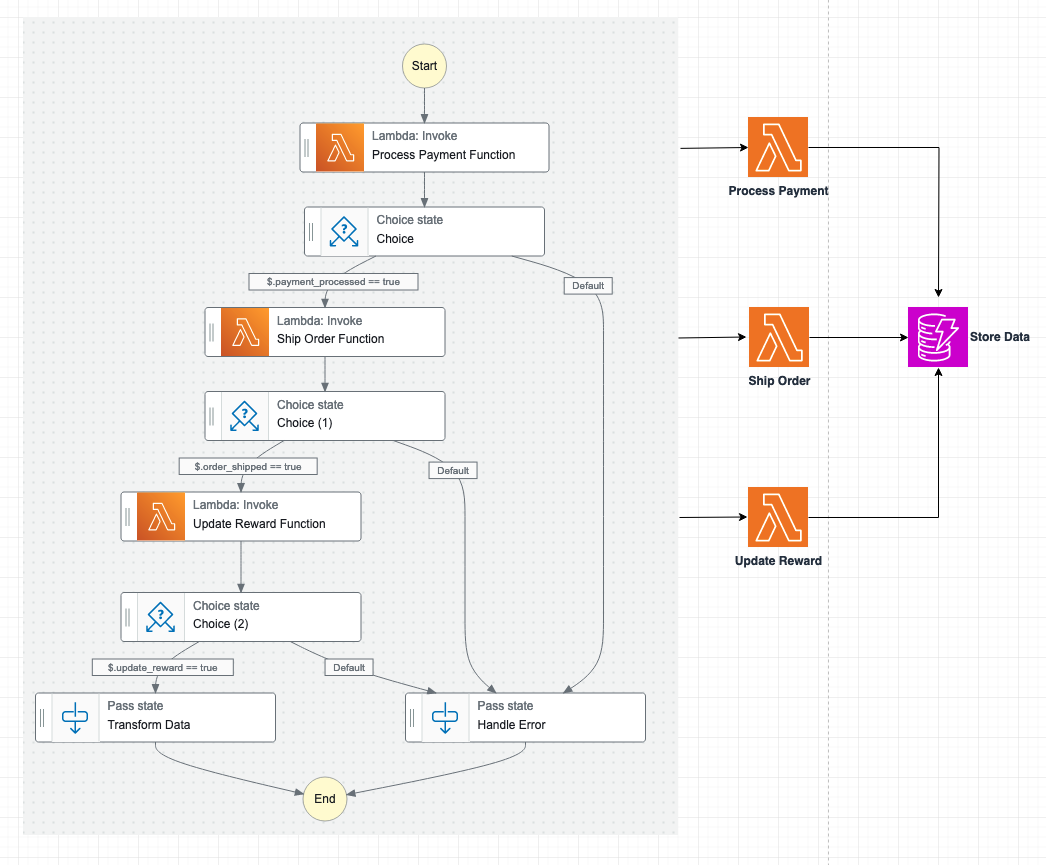
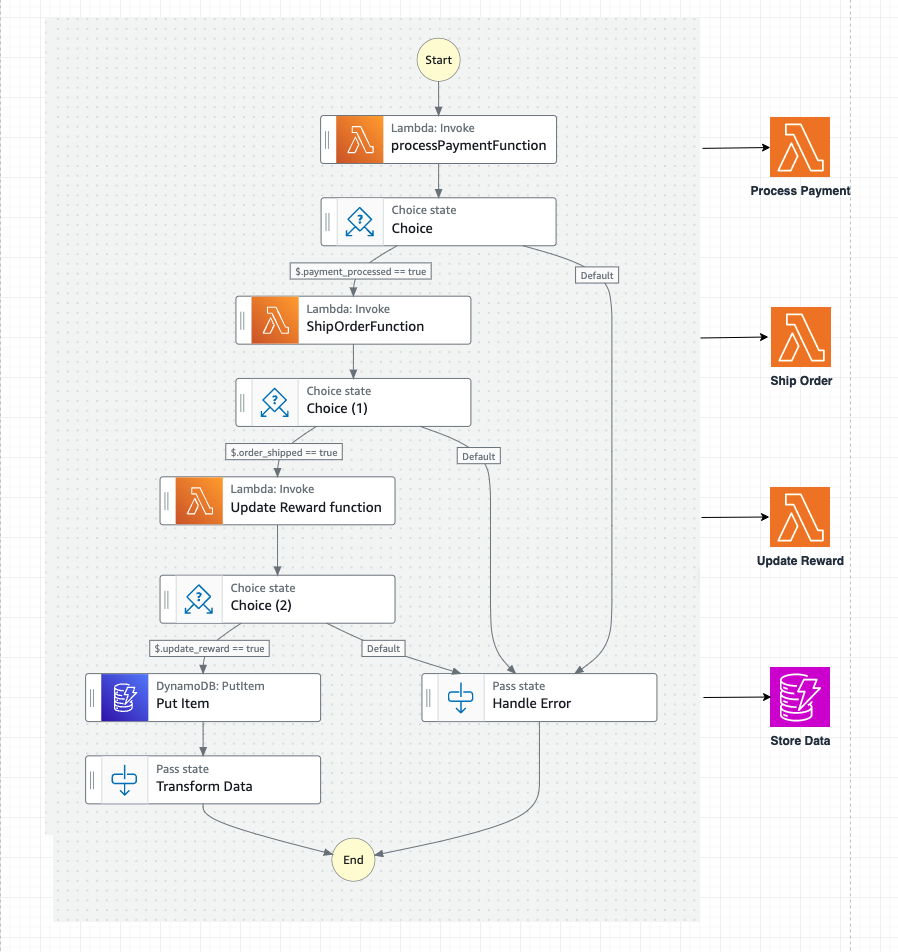
update PR

diff --git a/implementation/choreography-to-orchestration/lib/orchestration-stack.ts b/implementation/choreography-to-orchestration/lib/orchestration-stack.ts
@@ -63,6 +63,26 @@ export class OrchestrationStack extends Stack {
       runtime: lambda.Runtime.PYTHON_3_9,
     });
 
+    const DynamoDBTable = new dynamodb.CfnTable(this, "DynamoDBTable", {
+      attributeDefinitions: [
+        {
+          attributeName: "product_id",
+          attributeType: "S",
+        }
+      ],
+      tableName: "store-order-data",
+      keySchema: [
+        {
+          attributeName: "product_id",
+          keyType: "HASH",
+        }
+      ],
+      provisionedThroughput: {
+        readCapacityUnits: 1,
+        writeCapacityUnits: 1,
+      },
+    });
+
     const stateMachineRole = new iam.Role(this, "Resource Role", {
       assumedBy: new iam.ServicePrincipal("states.amazonaws.com"),
     });
@@ -71,6 +91,13 @@ export class OrchestrationStack extends Stack {
       new iam.PolicyStatement({
         actions: ["lambda:InvokeFunction"],
         resources: [ProcessPaymentFunction.functionArn, ShipOrderFunction.functionArn, UpdateRewardFunction.functionArn],
+      })
+    );
+
+    stateMachineRole.addToPolicy(
+      new iam.PolicyStatement({
+        actions: ["dynamodb:PutItem"],
+        resources: [DynamoDBTable.attrArn],
       })
     );
 
@@ -178,10 +205,33 @@ export class OrchestrationStack extends Stack {
               {
                 "Variable": "$.update_reward",
                 "BooleanEquals": true,
-                "Next": "Transform Data"
+                "Next": "Put Item"
               }
             ],
             "Default": "Handle Error"
+          },
+          "Put Item": {
+            "Type": "Task",
+            "Resource": "arn:aws:states:::dynamodb:putItem",
+            "Parameters": {
+              "TableName": "${DynamoDBTable.tableName}",
+              "Item": {
+                "product_id": {
+                  "S.$": "$.product_id"
+                },
+                "Payment_processed": {
+                  "BOOL": true
+                },
+                "Ship_order": {
+                  "BOOL": true
+                },
+                "Update_reward": {
+                  "BOOL": true
+                }
+              }
+            },
+            "Next": "Transform Data",
+            "ResultPath": null
           },
           "Transform Data": {
             "Type": "Pass",

diff --git a/implementation/choreography-to-orchestration/README.md b/implementation/choreography-to-orchestration/README.md
@@ -2,18 +2,18 @@
 This project is the CDK implementation of ['Convert Orchestration to Choreography'](https://serverlessland.com/refactoring-serverless/choreography-to-orchestration) pattern. It shows how you can convert a distributed message flow Choreography architecture to a central workflow Orchestration architecture. 
 
 ## How it works: 
-The use case is for an application that place an order for a product (Order Placement Workflow). Customer sends a request to place an order for a product. The application completes a series of steps reuired to complete an order and ship the product to customer. 
+The use case is for an application that place an order for a product (Order Placement Workflow). Customer sends a request to place an order for a product. The application completes a series of steps required to complete an order and ship the product to customer. The code will deploy 2 CloudFormation stacks ChoreographyStack and OrchestrationStack. In ChoreographyStack the services coordinate among themselves, the refactored OrchestrationStack uses a central orchestrator to manage and coordinate the interactions. 
 
 ***
 ## Choreography: 
 
-The flow starts with client submitting a place order request to the API Gateway REST API. Placing order is a lengthy process so there is no immediate response. The API accepts the place order request and returns a success or failed response. 
+The flow starts with customer submitting a place order request to the API Gateway REST API. Placing order is a lengthy process so there is no immediate response. The API accepts the place order request and returns a success or failed response. 
 
-API gateway then sends the request to a lambda function, which processes the payment and persists the payment data in an Amazon DynamoDB table. After that, the request is published to a 'Ship Order' SNS topic. Using Publish-subscribe model another lambda function will register to the 'Ship Order' SNS topic. This function reads the data from DynamoDB table to verify if payment was processed successfully and then ships an order. Throws an error is payment is not processed successfully. 
+API gateway then sends the request to a Lambda function, which processes the payment and persists the payment data in an Amazon DynamoDB table. After that, the request is published to a 'Ship Order' SNS topic. Using Publish-subscribe model another Lambda function will register to the 'Ship Order' SNS topic. This function reads the data from DynamoDB table to verify if payment was processed successfully and then ships an order. Throws an error is payment is not processed successfully. 
 
-After that the record in DynamoDB table is updated and the request will be forwarded to 'Update Reward' SNS topic. The UpdateReward lambda function is subscribed to the SNS topic. This function reads data from DynamoDB table and verifies is the order is shipped. If order is shipped successfully then the DynamoDB table is updated with the reward data, if not an error is thrown. 
+After that the record in DynamoDB table is updated and the request will be forwarded to 'Update Reward' SNS topic. The UpdateReward Lambda function is subscribed to the SNS topic. This function reads data from DynamoDB table and verifies is the order is shipped. If order is shipped successfully then the DynamoDB table is updated with the reward data, if not an error is thrown. 
 
-Client requests the order details using the 'get Order' REST API. The API reads the response from the DynamoDB table, formats the data to JSON for the customer. All the components in this architecture can operate independently and asynchronously without needing a central coordinator
+Customer requests the order details using the 'get Order' REST API. The API reads the response from the DynamoDB table, formats the data to JSON for the customer. All the components in this architecture can operate independently and asynchronously without needing a central coordinator
 
 ## Deploy the application:
 To build this app, navigate to implementation/choreography-to-orchestration folder. Then run the following:
@@ -83,7 +83,7 @@ cdk destroy ChoreographyStack
 
 ## Orchestration:
 
-A step function models the work flow as a state machine, coordinates the interactions between components and completes the workflow. The state machine invokes the lambda function and send the output to the next state. It then uses a Choice state to add conditional logic to either move to next steps or to an error state. 
+A step function models the work flow as a state machine, coordinates the interactions between components and completes the workflow. The state machine invokes the Lambda function and send the output to the next state. It then uses a Choice state to add conditional logic to either move to next steps or to an error state. 
 
 ## Deploy the application:
 To build this app, navigate to implementation/choreography-to-orchestration folder. Then run the following:

diff --git a/patterns/choreography-to-orchestration.md b/patterns/choreography-to-orchestration.md
@@ -16,7 +16,7 @@ In Choreography, every service works independently and achieves communication wi
 
 In orchestration, there is a central service (the ‘orchestrator’) that controls the interaction between services. It coordinates the interaction and order in which services are invoked like a control flow for the business logic. 
 
-Many applications use both choreography and orchestration for different use cases. Communication between bounded contexts is often how choreography is used most effectively, within a bounded context, you need to control the sequence of service integration, maintain state, and handle errors and retries. A standard guideline is to use orchestration within the bounded context of a microservice, but use choreography between bounded-contexts. 
+Many applications use both choreography and orchestration for different use cases. Communication between [bounded contexts](https://martinfowler.com/bliki/BoundedContext.html) is often how choreography is used most effectively, within a bounded context, you need to control the sequence of service integration, maintain state, and handle errors and retries. A standard guideline is to use orchestration within the bounded context of a microservice, but use choreography between bounded-contexts. 
 
 The following article presents a comprehensive illustration of two interaction patterns, highlights their pros and cons, and gives the advice how to select or combine them within a given context.
 
@@ -31,7 +31,7 @@ As an example to convert Choreography to Orchestration by using AWS Step Functio
 
 ## Advantages:
 
-- Easier to implement as one system controls the flow between components. The work flow is modelled and source controlled
+- Easier to implement as one system controls the flow between components. The work flow is modelled and version controlled
 
 - Simplifies end-to-end monitoring, reporting using built in visualization and audit histories.
  
@@ -39,10 +39,9 @@ As an example to convert Choreography to Orchestration by using AWS Step Functio
 
 - Centralized business logic - everything can be seen in one place. No need for architecture diagrams and supporting documents. 
 
-
 ## Limitations: 
 
-- Additional costs when using the Orchestration service. For example, AWS Step functions charges for the total number of state transitions per month after exceeding the initial 4,000 free state transitions per month. AWS Step Functions counts a state transition every time a step of your workflow is executed. 
+- Additional costs when using the Orchestration service. For example, AWS Step functions charges for the total number of state transitions per month after exceeding the initial 4,000 free state transitions per month. AWS Step Functions counts a state transition every time a step of your workflow is executed. For example for 50K requests it costs 3.96 using the original architecture and the refactored architecture using AWS step functions costs 4.90. 
 
 - The central coordinator system can be a single point of failure.  
 
